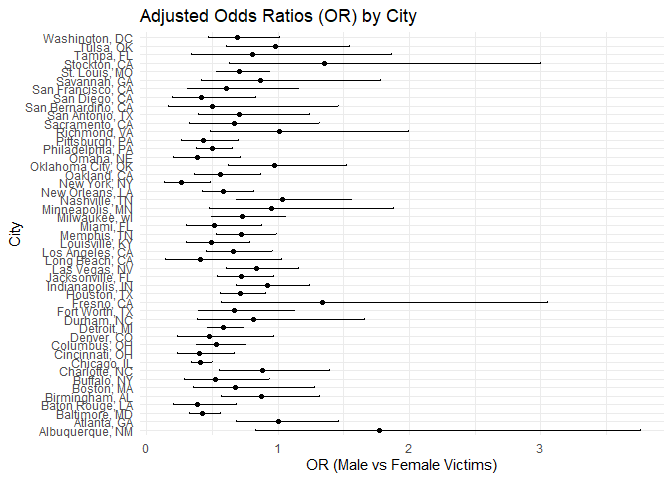
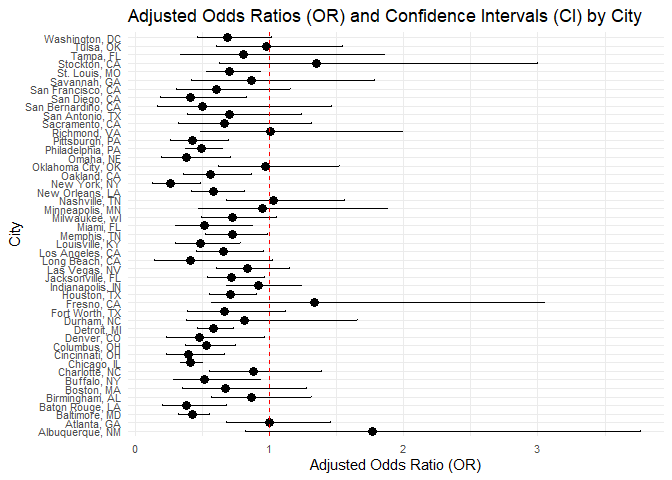
update comment

diff --git a/p8105_hw6_fl2714.md b/p8105_hw6_fl2714.md
@@ -43,6 +43,27 @@ library(rsample)
 
     ## Warning: 程序包'rsample'是用R版本4.4.2 来建造的
 
+``` r
+library(car)
+```
+
+    ## Warning: 程序包'car'是用R版本4.4.2 来建造的
+
+    ## 载入需要的程序包：carData
+
+    ## Warning: 程序包'carData'是用R版本4.4.2 来建造的
+
+    ## 
+    ## 载入程序包：'car'
+    ## 
+    ## The following object is masked from 'package:dplyr':
+    ## 
+    ##     recode
+    ## 
+    ## The following object is masked from 'package:purrr':
+    ## 
+    ##     some
+
 ### Problem 2
 
 ``` r
@@ -56,11 +77,11 @@ cleaned_data <- homicide_data %>%
   mutate(city_state = paste(city, state, sep = ", ")) %>% # create variable
   mutate(solved_binary = ifelse(disposition == "Closed by arrest", 1, 0)) %>% # whether the homicide is solved
   filter(!city_state %in% c("Dallas, TX", "Phoenix, AZ", "Kansas City, MO", "Tulsa, AL")) %>%
-  filter(victim_race %in% c("White", "Black")) %>% #  limit victim_race
+  filter(victim_race %in% c("White", "Black")) %>% # limit victim_race
   mutate(
     victim_age = ifelse(victim_age == "Unknown", NA, victim_age),  
     victim_age = as.numeric(victim_age)                            
-  ) %>%
+  ) %>% # victim_age is numeric
   drop_na(victim_age)  
 ```
 
@@ -71,62 +92,152 @@ baltimore_data <- cleaned_data %>%
 glm_baltimore <- glm(solved_binary ~ victim_age + victim_sex + victim_race,
                      data = baltimore_data, family = "binomial")
 
-baltimore_results <- broom::tidy(glm_baltimore, exponentiate = TRUE, conf.int = TRUE)
-baltimore_results %>%
-  filter(term == "victim_sexMale")
+glm_baltimore |> 
+  broom::tidy(conf.int = TRUE) |> 
+  mutate(OR = exp(estimate), 
+         CI_low = exp(conf.low), 
+         CI_high = exp(conf.high)) |>  
+  select(term, log_OR = estimate, OR, p.value, CI_low, CI_high) |> 
+  knitr::kable(digits = 3)
 ```
 
-    ## # A tibble: 1 × 7
-    ##   term           estimate std.error statistic  p.value conf.low conf.high
-    ##   <chr>             <dbl>     <dbl>     <dbl>    <dbl>    <dbl>     <dbl>
-    ## 1 victim_sexMale    0.426     0.138     -6.18 6.26e-10    0.324     0.558
+| term             | log_OR |    OR | p.value | CI_low | CI_high |
+|:-----------------|-------:|------:|--------:|-------:|--------:|
+| (Intercept)      |  0.310 | 1.363 |   0.070 |  0.976 |   1.911 |
+| victim_age       | -0.007 | 0.993 |   0.043 |  0.987 |   1.000 |
+| victim_sexMale   | -0.854 | 0.426 |   0.000 |  0.324 |   0.558 |
+| victim_raceWhite |  0.842 | 2.320 |   0.000 |  1.650 |   3.276 |
+
+The estimate for the adjusted odds ratio comparing male victims to
+female victims is 0.426, with a 95% confidence interval of \[0.324,
+0.558\], indicating that the odds of solving homicides for male victims
+are significantly lower than those for female victims, controlling for
+other variables.
 
 ``` r
-city_results <- cleaned_data %>%
-  group_by(city_state) %>%
-  nest() %>%  
+# Group the data by city_state
+results <- cleaned_data %>%
+  group_by(city_state) %>% 
+  nest() %>%  # Create a nested data frame for each city
   mutate(
-    glm_fit = map(data, ~ glm(solved_binary ~ victim_age + victim_sex + victim_race,
-                              data = ., family = "binomial")),
-    tidy_results = map(glm_fit, ~ broom::tidy(.x, exponentiate = TRUE, conf.int = TRUE))
+    glm_model = map(data, ~ glm(solved_binary ~ victim_age + victim_sex + victim_race,
+                                data = .x, family = "binomial")),  # Fit the logistic model for each city
+    glm_tidy = map(glm_model, ~ broom::tidy(.x, conf.int = TRUE))  # Extract coefficients and CI
   ) %>%
-  unnest(tidy_results) %>%  
-  filter(term == "victim_sexMale") %>% 
-  select(city_state, estimate, conf.low, conf.high)
+  unnest(cols = glm_tidy) %>%  # Unnest the coefficients into a flat data frame
+  filter(term == "victim_sexMale") %>%  # Select only the row for male vs female comparison
+  mutate(
+    OR = exp(estimate),  # Convert log(OR) to OR
+    CI_low = exp(conf.low),  # Convert lower CI bound
+    CI_high = exp(conf.high)  # Convert upper CI bound
+  ) %>%
+  select(city_state, OR, CI_low, CI_high, p.value)  # Keep relevant columns
 ```
 
     ## Warning: There were 43 warnings in `mutate()`.
     ## The first warning was:
-    ## ℹ In argument: `tidy_results = map(glm_fit, ~broom::tidy(.x, exponentiate =
-    ##   TRUE, conf.int = TRUE))`.
+    ## ℹ In argument: `glm_tidy = map(glm_model, ~broom::tidy(.x, conf.int = TRUE))`.
     ## ℹ In group 1: `city_state = "Albuquerque, NM"`.
     ## Caused by warning:
     ## ! glm.fit:拟合概率算出来是数值零或一
     ## ℹ Run `dplyr::last_dplyr_warnings()` to see the 42 remaining warnings.
 
 ``` r
-city_results <- city_results %>%
-  arrange(estimate) %>%
+# Display results
+results %>%
+  knitr::kable(digits = 3)
+```
+
+| city_state         |    OR | CI_low | CI_high | p.value |
+|:-------------------|------:|-------:|--------:|--------:|
+| Albuquerque, NM    | 1.767 |  0.825 |   3.762 |   0.139 |
+| Atlanta, GA        | 1.000 |  0.680 |   1.458 |   1.000 |
+| Baltimore, MD      | 0.426 |  0.324 |   0.558 |   0.000 |
+| Baton Rouge, LA    | 0.381 |  0.204 |   0.684 |   0.002 |
+| Birmingham, AL     | 0.870 |  0.571 |   1.314 |   0.511 |
+| Boston, MA         | 0.674 |  0.353 |   1.277 |   0.226 |
+| Buffalo, NY        | 0.521 |  0.288 |   0.936 |   0.029 |
+| Charlotte, NC      | 0.884 |  0.551 |   1.391 |   0.600 |
+| Chicago, IL        | 0.410 |  0.336 |   0.501 |   0.000 |
+| Cincinnati, OH     | 0.400 |  0.231 |   0.667 |   0.001 |
+| Columbus, OH       | 0.532 |  0.377 |   0.748 |   0.000 |
+| Denver, CO         | 0.479 |  0.233 |   0.962 |   0.041 |
+| Detroit, MI        | 0.582 |  0.462 |   0.734 |   0.000 |
+| Durham, NC         | 0.812 |  0.382 |   1.658 |   0.576 |
+| Fort Worth, TX     | 0.669 |  0.394 |   1.121 |   0.131 |
+| Fresno, CA         | 1.335 |  0.567 |   3.048 |   0.496 |
+| Houston, TX        | 0.711 |  0.557 |   0.906 |   0.006 |
+| Indianapolis, IN   | 0.919 |  0.678 |   1.241 |   0.582 |
+| Jacksonville, FL   | 0.720 |  0.536 |   0.965 |   0.028 |
+| Las Vegas, NV      | 0.837 |  0.606 |   1.151 |   0.278 |
+| Long Beach, CA     | 0.410 |  0.143 |   1.024 |   0.072 |
+| Los Angeles, CA    | 0.662 |  0.457 |   0.954 |   0.028 |
+| Louisville, KY     | 0.491 |  0.301 |   0.784 |   0.003 |
+| Memphis, TN        | 0.723 |  0.526 |   0.984 |   0.042 |
+| Miami, FL          | 0.515 |  0.304 |   0.873 |   0.013 |
+| Milwaukee, wI      | 0.727 |  0.495 |   1.054 |   0.098 |
+| Minneapolis, MN    | 0.947 |  0.476 |   1.881 |   0.876 |
+| Nashville, TN      | 1.034 |  0.681 |   1.556 |   0.873 |
+| New Orleans, LA    | 0.585 |  0.422 |   0.812 |   0.001 |
+| New York, NY       | 0.262 |  0.133 |   0.485 |   0.000 |
+| Oakland, CA        | 0.563 |  0.364 |   0.867 |   0.009 |
+| Oklahoma City, OK  | 0.974 |  0.623 |   1.520 |   0.908 |
+| Omaha, NE          | 0.382 |  0.199 |   0.711 |   0.003 |
+| Philadelphia, PA   | 0.496 |  0.376 |   0.650 |   0.000 |
+| Pittsburgh, PA     | 0.431 |  0.263 |   0.696 |   0.001 |
+| Richmond, VA       | 1.006 |  0.483 |   1.994 |   0.987 |
+| San Antonio, TX    | 0.705 |  0.393 |   1.238 |   0.230 |
+| Sacramento, CA     | 0.669 |  0.326 |   1.314 |   0.255 |
+| Savannah, GA       | 0.867 |  0.419 |   1.780 |   0.697 |
+| San Bernardino, CA | 0.500 |  0.166 |   1.462 |   0.206 |
+| San Diego, CA      | 0.413 |  0.191 |   0.830 |   0.017 |
+| San Francisco, CA  | 0.608 |  0.312 |   1.155 |   0.134 |
+| St. Louis, MO      | 0.703 |  0.530 |   0.932 |   0.014 |
+| Stockton, CA       | 1.352 |  0.626 |   2.994 |   0.447 |
+| Tampa, FL          | 0.808 |  0.340 |   1.860 |   0.619 |
+| Tulsa, OK          | 0.976 |  0.609 |   1.544 |   0.917 |
+| Washington, DC     | 0.690 |  0.465 |   1.012 |   0.061 |
+
+``` r
+# Create the data for plotting
+plot_data <- results %>%  
+  arrange(OR) %>%  # Arrange cities by OR
   mutate(city_state = factor(city_state, levels = city_state))  
 
-ggplot(city_results, aes(x = city_state, y = estimate)) +
-  geom_point() +
-  geom_errorbar(aes(ymin = conf.low, ymax = conf.high), width = 0.2) +
-  coord_flip() +
-  labs(title = "Adjusted Odds Ratios (OR) by City",
-       x = "City", y = "OR (Male vs Female Victims)") +
-  theme_minimal()
+# Plot the ORs and CIs using ggplot
+ggplot(plot_data, aes(x = city_state, y = OR)) +
+  geom_point(size = 3) +  
+  geom_errorbar(aes(ymin = CI_low, ymax = CI_high), width = 0.2) + 
+  coord_flip() +  # Flip coordinates for better readability
+  theme_minimal() +  # Use a minimal theme
+  labs(
+    title = "Adjusted Odds Ratios (OR) and Confidence Intervals (CI) by City",
+    x = "City",
+    y = "Adjusted Odds Ratio (OR)"
+  ) +
+  geom_hline(yintercept = 1, linetype = "dashed", color = "red") +  # Add a reference line at OR = 1
+  theme(
+    axis.text.y = element_text(size = 8), 
+    axis.text.x = element_text(size = 8)
+  )
 ```
 
 ![](p8105_hw6_fl2714_files/figure-gfm/unnamed-chunk-6-1.png)<!-- -->
+General Trend: In most cities, male victims are less likely to have
+their homicides solved compared to female victims (OR \< 1). Statistical
+Significance: Cities like Baltimore, MD and Atlanta, GA show significant
+effects with confidence intervals entirely below 1, indicating a strong
+association. Variability: Some cities show no significant difference (OR
+≈ 1), while a few have OR \> 1 with wide confidence intervals,
+suggesting uncertainty or smaller sample sizes.
 
 ### Problem 3
 
 ``` r
-birthweight <- read.csv("data/birthweight.csv")
-```
+# Load and clean the data
 
-``` r
+birthweight <- read.csv("data/birthweight.csv")
+
 birthweight <- birthweight %>%
   mutate(
     babysex = factor(babysex, levels = c(1, 2), labels = c("Male", "Female")),
@@ -139,8 +250,6 @@ birthweight <- birthweight %>%
 
 ``` r
 model_hypothesis <- lm(bwt ~ babysex + bhead + blength + gaweeks + wtgain + smoken, data = birthweight)
-
-
 summary(model_hypothesis)
 ```
 
@@ -168,6 +277,27 @@ summary(model_hypothesis)
     ## Residual standard error: 283 on 4335 degrees of freedom
     ## Multiple R-squared:  0.6951, Adjusted R-squared:  0.6947 
     ## F-statistic:  1647 on 6 and 4335 DF,  p-value: < 2.2e-16
+
+This model is based on hypothesized factors known to influence
+birthweight, supported by biological and clinical evidence:
+
+babysex: Male babies typically have higher birthweight than female
+babies bhead (head circumference): A direct indicator of the baby’s size
+blength (length): size-related factor correlated with birthweight
+gaweeks (gestational age): Longer gestation often leads to higher
+birthweight wtgain (maternal weight gain): Reelated to maternal health
+and nutrition during pregnancy smoken (maternal smoking): Smoking
+restricts fetal growth
+
+These variables were chosen based on domain knowledge about the factors
+influencing birthweight.
+
+``` r
+vif(model_hypothesis)
+```
+
+    ##  babysex    bhead  blength  gaweeks   wtgain   smoken 
+    ## 1.040432 1.785757 1.726263 1.223883 1.051873 1.012770
 
 ``` r
 birthweight <- birthweight %>%
